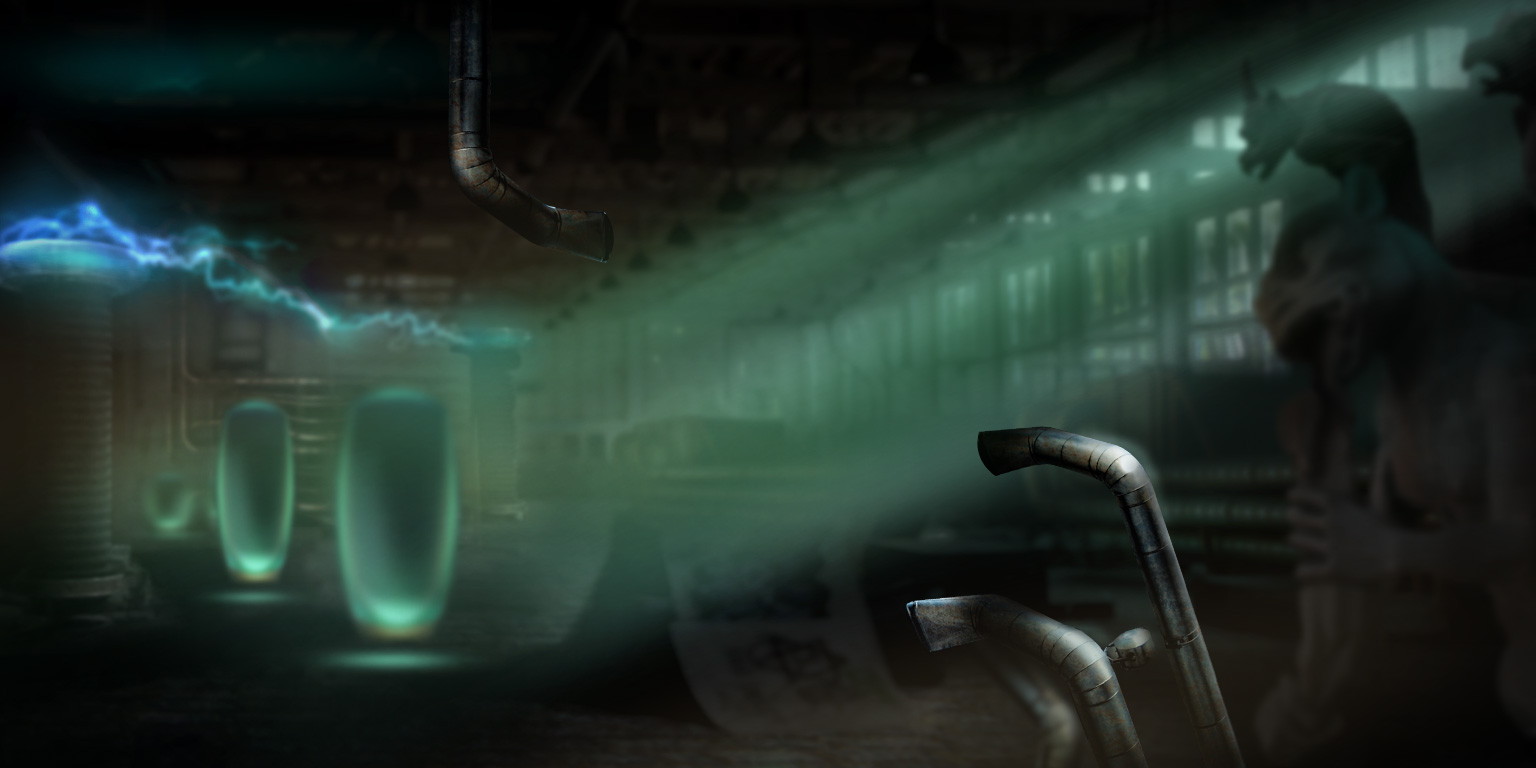
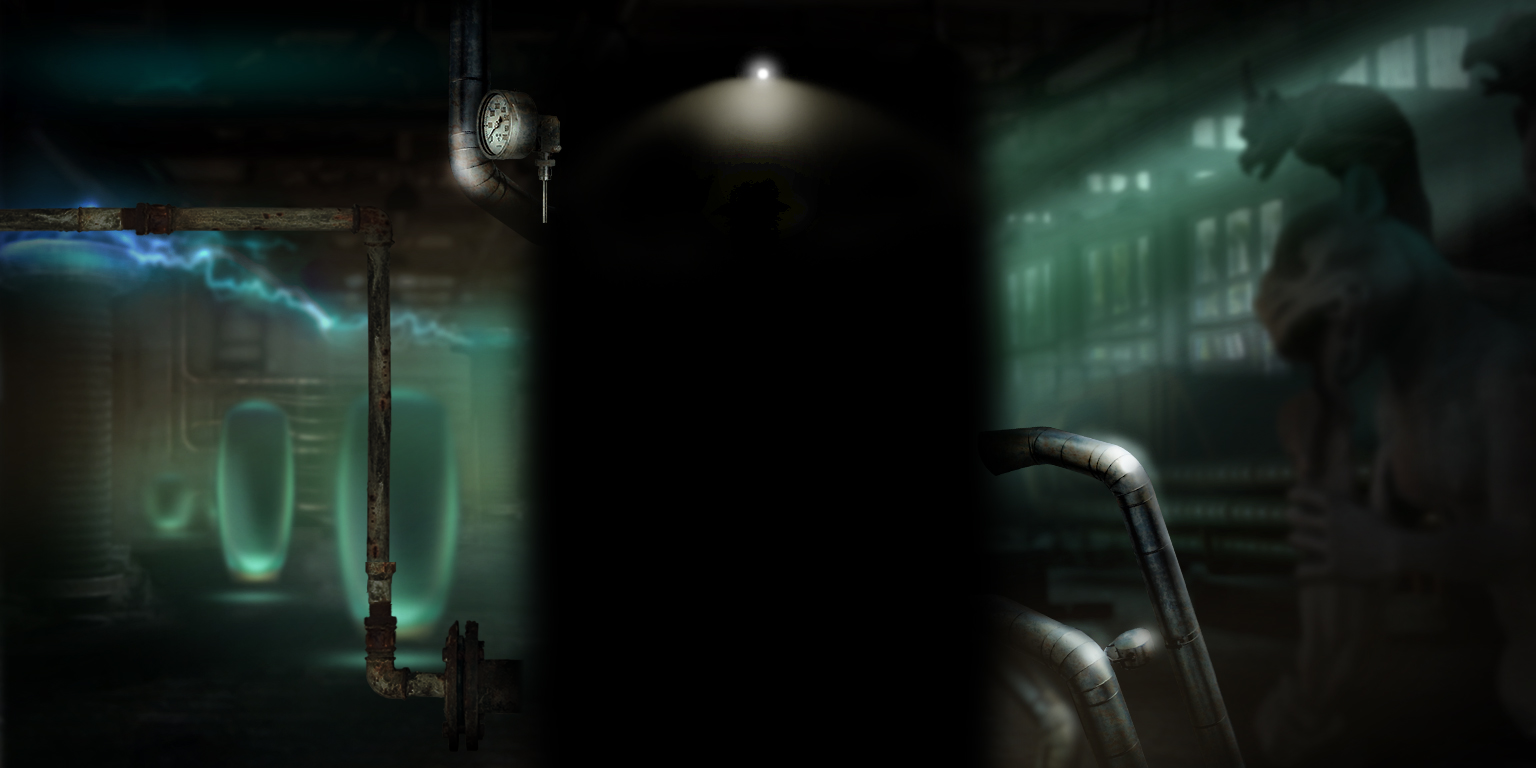
layout and capture photo

diff --git a/app/styles/camera.scss b/app/styles/camera.scss
@@ -1,27 +1,68 @@
-.mask{
-    z-index:10000;
-    width:614px;    
-    height:768px;    
-    background: transparent url("../images/layout/booth.png") no-repeat scroll center top;
-    margin:0 auto;  
-    position: relative;              
+
+
+.main-wrap{
+    position: relative;
+    width: 1000px;
+    margin: 0 auto;
+
+    .mask{
+        z-index:10000;
+        width:518px;    
+        height:768px;    
+        background: transparent url("../images/layout/booth.png") no-repeat scroll center top;
+        position: absolute;
+        top: 0px;
+        left: 245px;      
+        .glyphicon-camera{
+            position: relative;
+            margin: 0 auto;
+            top: 680px;
+            display: none;
+        }        
+    }
+
+    .camera-container{
+        z-index:10000;
+        width:430px;
+        height:720px;
+        overflow: hidden;
+        margin: 0 auto 0;                            
+    }
+
+    #booth-camera{
+        width:960px;
+        height:720px;    
+        margin:70px 0 0 -230px;
+        -webkit-transform: scaleX(-1);
+        transform: scaleX(-1);
+         -webkit-filter: hue-rsotate(90 deg);
+        background-position:initial initial;
+        background-repeat:initial initial;
+        /* -webkit-filter: saturate(5);*/
+    }
+
+    .skull{
+        background: transparent url("../images/layout/skull.png") no-repeat scroll center top; 
+        width: 332px;
+        height: 402px;
+        position: absolute;
+        top: 110px;
+        left: 340px;
+    }
+
+    .photo {
+        position: absolute;
+        top: 0;
+        left: 200px;
+        img{
+            /*vertical-align:top;*/
+            
+        }
+        
+    }
+        
+
 }
 
-.camera-container{
-    z-index:10000;
-    width:500px;
-    height:720px;
-    overflow: hidden;
-    margin: 0 auto 0;                            
-}
 
-#booth-camera{
-    width:960px;
-    height:720px;    
-    margin:0 0 0 -230px;
-    -webkit-transform: scaleX(-1);
-    transform: scaleX(-1);
-    // -webkit-filter: hue-rsotate(90 deg);
-    /* -webkit-filter: saturate(5);*/
-}
 

diff --git a/app/scripts/main.js b/app/scripts/main.js
@@ -58,18 +58,18 @@ require(['app', 'jquery'], function (App, $) {
     'use strict';
     // use app here
 
-    if(App.validation.hasGetUserMedia){    
-
+    if(App.validation.hasGetUserMedia){  
 
         var onFailSoHard = function(e) {
             console.log('Reeeejected!', e);
         };
-
+        
         // Not showing vendor prefixes.
         navigator.webkitGetUserMedia({video: true, audio: false}, function(localMediaStream) {
             var video = document.querySelector('video');
             video.src = window.URL.createObjectURL(localMediaStream);
-
+            $(".glyphicon-camera").css("display", "block");
+            App.controller.camera.setStream(localMediaStream);
             // Note: onloadedmetadata doesn't fire in Chrome when using it with getUserMedia.
             // See crbug.com/110938.
             video.onloadedmetadata = function(e) {
@@ -78,10 +78,19 @@ require(['app', 'jquery'], function (App, $) {
             };
         }, onFailSoHard);
 
-
     } else {
         alert('getUserMedia() is not supported in your browser');
     }
+
+    $(".glyphicon-camera").on("click", function(){
+        App.flow.step1();
+    })
+
+    $('body').keyup(function(e){
+       if(e.keyCode == 32){
+           App.flow.step1();
+       }
+    });
 
     // console.log(app);
     // console.log('Running jQuery %s', $().jquery);

diff --git a/app/index.html b/app/index.html
@@ -20,20 +20,27 @@
         <![endif]-->
         
         <section id="booth">
+            <div class="main-wrap">
+                <div class="camera-container">
+                    <video id="booth-camera" autoplay></video>
 
-            <div class="camera-container">
-                <video id="booth-camera" autoplay></video>
+                </div>
+                <!--<div id="controls">
+                    <input type="button" class="button green" value="next"/>    
+                </div>-->
+                <div class="skull"></div>
+                <div class="photo">
+                    <img src="">
+                    <canvas style="display:none;"></canvas>
+                </div>
+                <div class="mask">
+                    <i class="glyphicon glyphicon-camera btn-icon btn-icon"></i>
+                </div>
+                
             </div>
-            <div id="controls">
-                <input type="button" class="button green" value="next"/>    
-            </div>
-
-            <div class="mask"></div>
-
-
         </section>
 
-        <object height="50" width="100" data="audio/HangarOfTheDead.mp3"></object>
+        <!--<object height="50" width="100" data="audio/HangarOfTheDead.mp3"></object>-->
         
         <!-- build:js scripts/vendor.js -->
         <!-- bower:js -->

diff --git a/app/scripts/app.js b/app/scripts/app.js
@@ -2,6 +2,11 @@
 define([], function () {
     // 'use strict';
 
+    var video = document.querySelector('video');
+	var canvas = document.querySelector('canvas');
+	var ctx = canvas.getContext('2d');
+	var stream = null;
+
     var App = {
 
 	    validation: {
@@ -12,15 +17,27 @@ define([], function () {
 	    	}
 	    },
 
-	    logic: {
+	    controller: {
+	    	camera:{
+	    		setStream:function(streamValue){
+	    			stream = streamValue;
+	    		},
 
-
+	    		takePicture:function(){
+	    			// Not showing vendor prefixes or code that works cross-browser.
+					if (stream) {
+						ctx.drawImage(video, 0, 0);
+					    // "image/webp" works in Chrome 18. In other browsers, this will fall back to image/png.
+					    document.querySelector('img').src = canvas.toDataURL('image/webp');
+					}
+	    		}
+	    	}
 	    },
 
 	    flow: {
 
 	    	step1: function() {
-
+	    		App.controller.camera.takePicture();
 	    	},
 	    	step2: function() {
 

diff --git a/app/styles/global.scss b/app/styles/global.scss
@@ -1,3 +1,23 @@
 body {
 	background: rgba(0,0,0,1) url("../images/layout/bg.jpg") no-repeat scroll center top;
 }
+
+.btn-icon{
+	background: url("../images/layout/btn-sprite.png");
+	background-position: -88px 0;
+	display: block;
+	color: #87d1e7;
+	width: 39px;
+	height: 39px;
+	padding: 7px 0 0 10px;
+	font-size: 19px;
+}
+
+.btn-icon:hover{
+	background-position: -0px 0;
+}
+
+.btn-icon:active{
+	background-position: -44px 0;
+}
+
